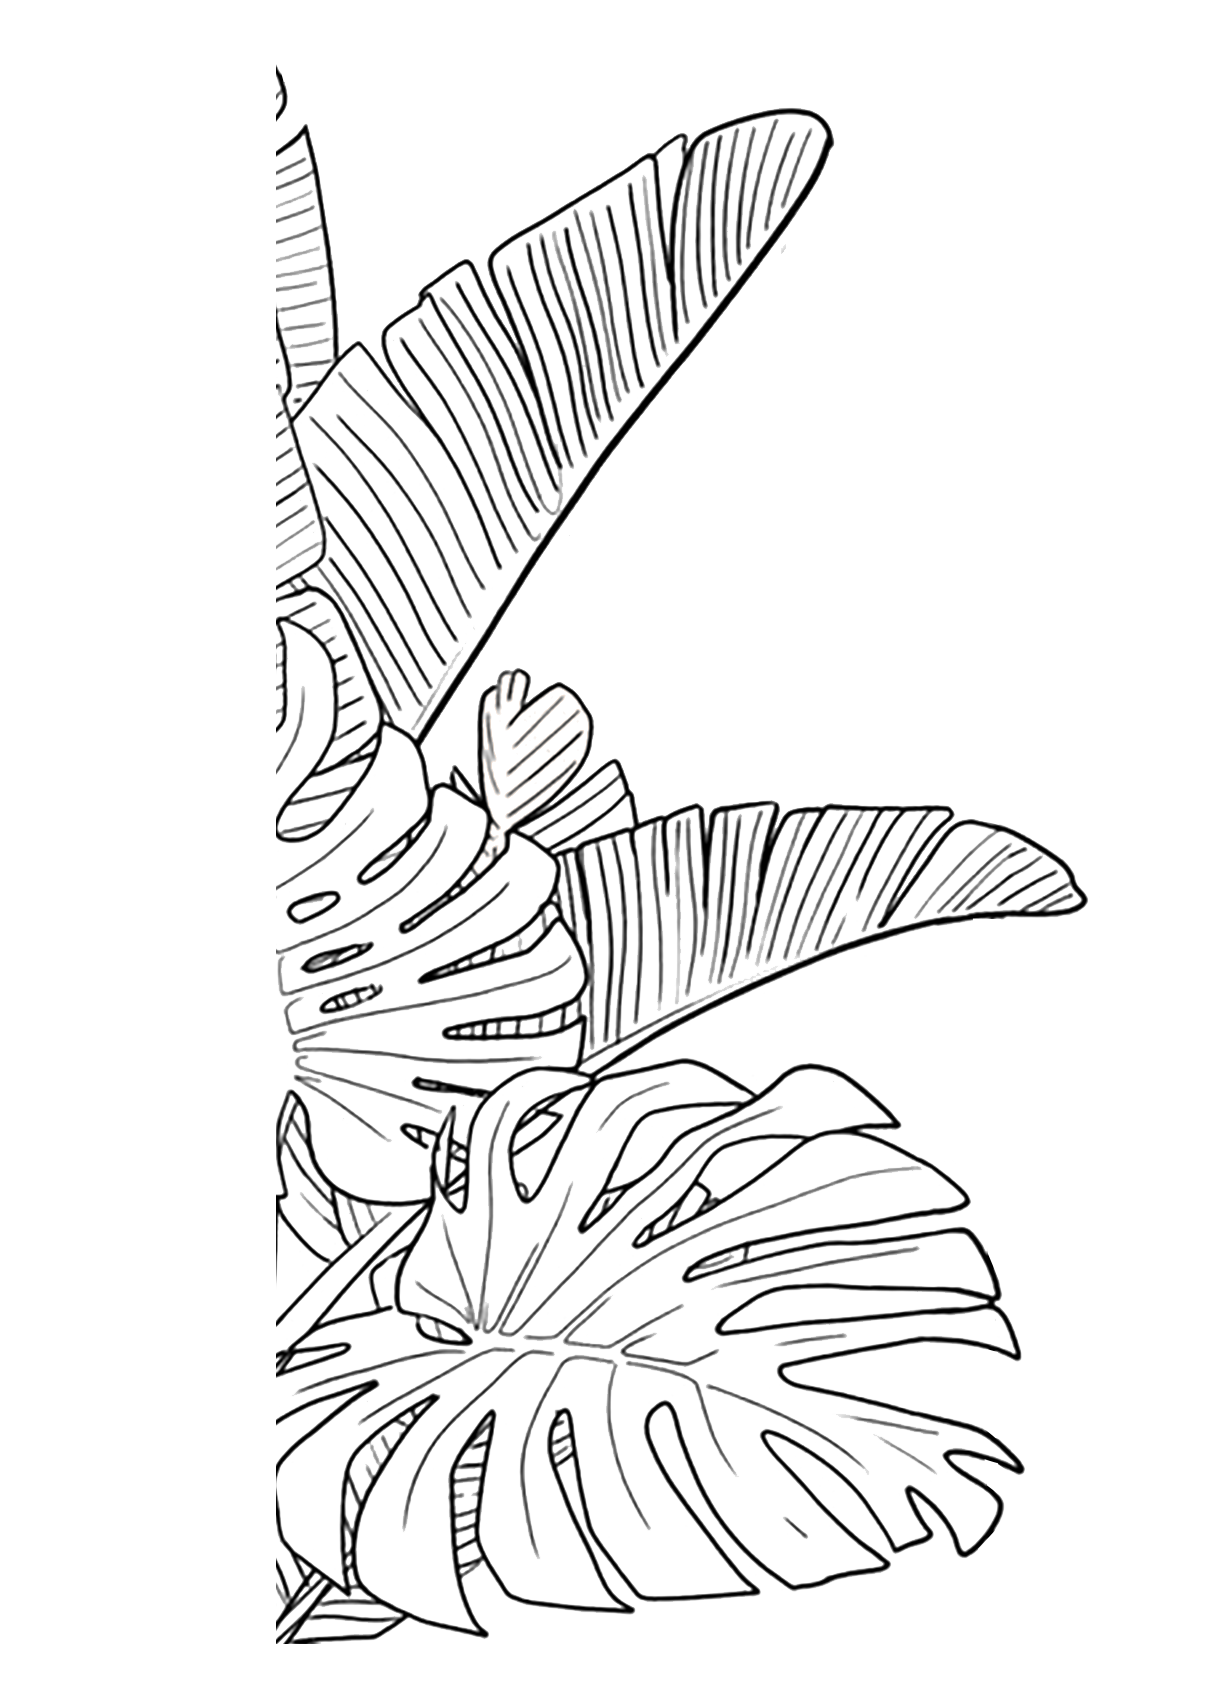
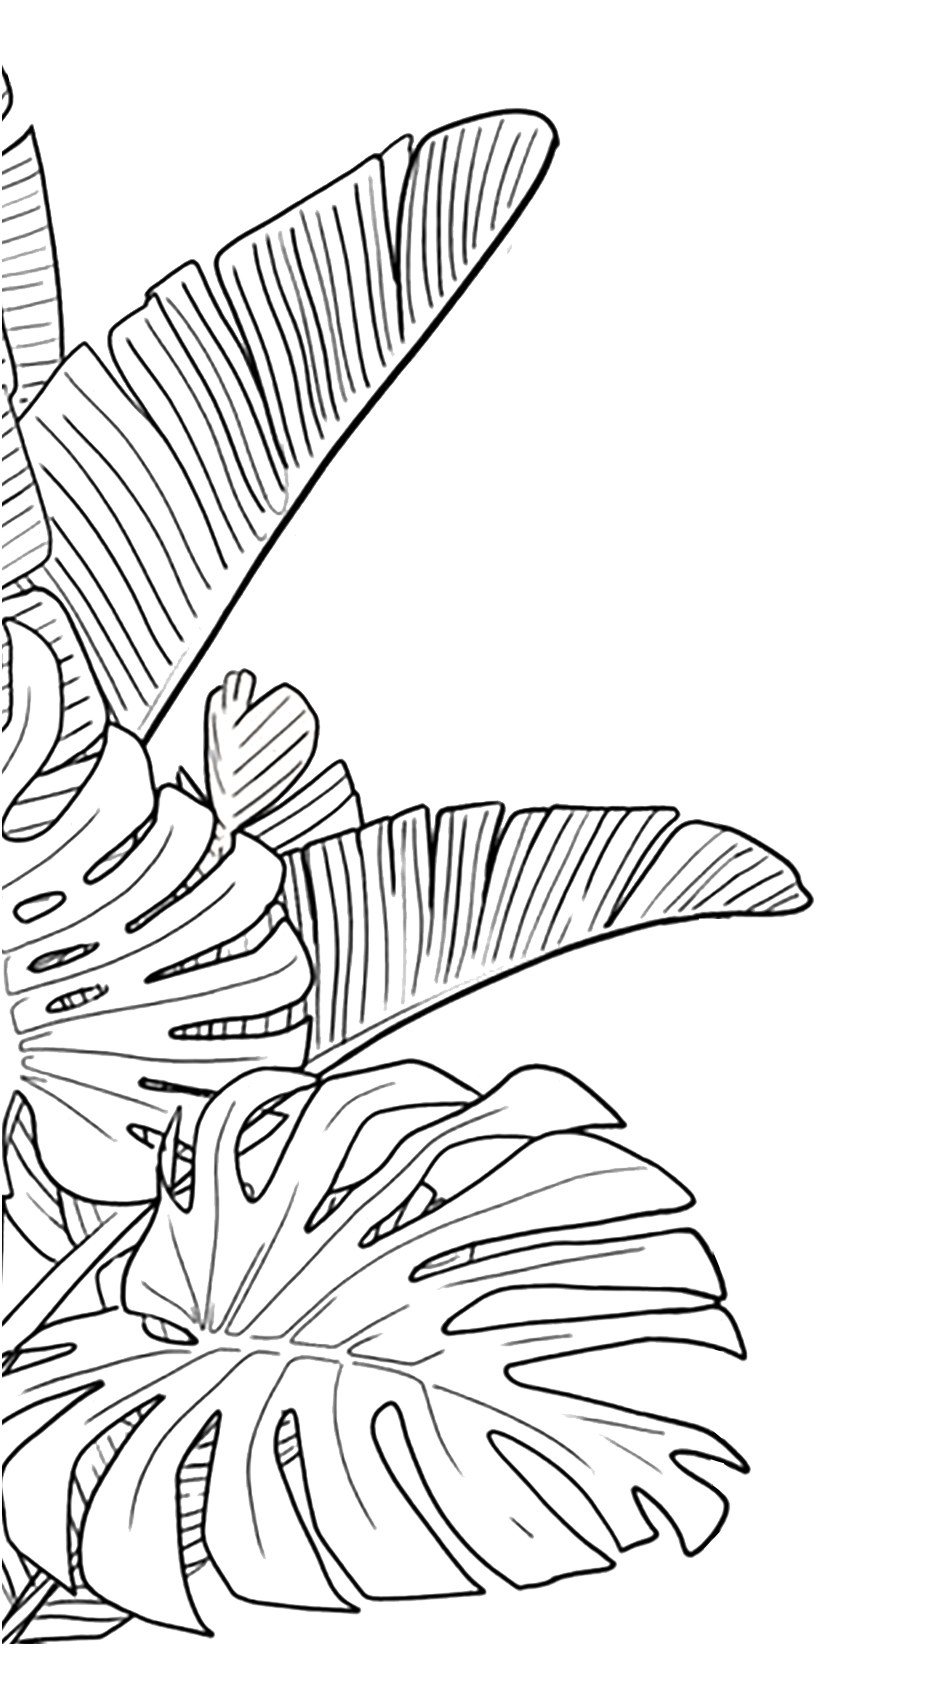
element images added

Changed region(s): [[0.0, 0.0308, 0.8985, 0.9852]]

diff --git a/src/app/home/home.component.html b/src/app/home/home.component.html
@@ -18,8 +18,11 @@
 
 <!--hero section-->
 <div class="container-fluid main">
+  <img class="plant-1" src="./assets/images/banner%20plant%201.png" alt="">
+  <img class="lady" src="./assets/images/Lady%20banner.png" alt="">
   <div class="row ">
-    <div class="col-12 col-md-6 main_col d-flex justify-content-center align-items-center h-100">
+    <div class="col-12 col-md-6 main_col d-flex justify-content-center align-items-center h-100 ">
+      <img class="plant-2" src="./assets/images/banner%20plant%202.png" alt="">
       <div class="main_heading_container">
         <h1 class="main_heading">
           <span class=" mio title">
@@ -41,6 +44,8 @@
 
 <!--intro-1 -->
 <div class="container-fluid intro-section " id="introsection" #introsection>
+  <img class="intro_section_imageright" src="assets/images/about_right.png">
+  <img class="intro_section_imageleft" src="assets/images/about_left.png">
   <div class="row">
     <div class="col-12">
       <div class="container">
@@ -82,11 +87,13 @@
 
 <!--Memberships-->
 <div class="container-fluid membership">
+<!--  <img class="membership_imageright" src="assets/images/lady.png">-->
+<!--  <img class="membership_imageleft" src="assets/images/man.png">-->
   <div class="row">
     <div class="col-12 d-flex justify-content-center">
-      <div class="container">
+      <div class="container membership_container">
         <div class="row">
-          <div class="col-12 px-0 membership_container">
+          <div class="col-12 px-0 ">
             <p class="membership_heading_1 fade-in_membership_heading">
               <span class="membership_heading_2">
                 Memberships to suit everyone.
@@ -326,11 +333,13 @@
 
 <!--our standards-->
 <div class="container-fluid our_standard">
+  <img class="our_standard_imageright" src="assets/images/about_right.png">
+  <img class="our_standard_imageleft" src="assets/images/about_left.png">
   <div class="row">
     <div class="col-12 d-flex justify-content-center">
-      <div class="container">
+      <div class="container our_standard_container">
         <div class="row">
-          <div class="col-12 px-0 our_standard_container">
+          <div class="col-12 px-0 ">
               <h2 class="our_standard_heading">
                 What comes as standard
               </h2>
@@ -480,13 +489,6 @@
           </div>
           <hr>
           <div class="col-8 pt-3 pt-lg-0 col-lg-6 d-flex justify-content-between">
-<!--            <div class="container-fluid">-->
-<!--              <div class="row">-->
-<!--                <div class="col-12 text-lg-right pr-lg-5">-->
-<!--&lt;!&ndash;                  <img class="img-fluid" src="./assets/images/QR.jfif" alt="QR" style="max-width: 100px">&ndash;&gt;-->
-<!--                </div>-->
-<!--              </div>-->
-<!--            </div>-->
             <div class="container-fluid px-lg-0">
               <div class="row">
                 <div class="col-12 px-lg-0">
@@ -513,6 +515,25 @@
 <!--                  </h6>-->
 <!--                </div>-->
 <!--              </div>-->
+            </div>
+            <div class="container-fluid">
+              <div class="row">
+                <div class="col-12 text-lg-right pr-lg-5 pt-4">
+                  <!--                  <img class="img-fluid" src="./assets/images/QR.jfif" alt="QR" style="max-width: 100px">-->
+                  <span class="footer_links">
+                    <a href="mailto:Info@miocoworks.com" target="_blank" style="text-decoration: none; color: #fff" >
+                     Info@miocoworks.com
+                    </a>
+                  </span>
+
+                  <span class="footer_links">
+                    <a target="_blank" style="text-decoration: none; color: #fff" >
+                                         9667563917
+                    </a>
+                  </span>
+
+                </div>
+              </div>
             </div>
           </div>
         </div>

diff --git a/src/app/home/home.component.scss b/src/app/home/home.component.scss
@@ -45,9 +45,38 @@
 .main {
   background: #faf0e6;
   color: #2d2d2d;
+  position: relative;
+  overflow-x: hidden;
 
+  .plant-1{
+    position: absolute;
+    left: 0;
+    bottom: 0;
+    height: 30rem;
+    opacity: 60%;
+  }
+  .lady{
+    position: absolute;
+    left: 0;
+    bottom: 0;
+    height: 20rem;
+    opacity: 85%;
+    @media screen and (min-width: 768px) and (max-width: 1200px) {
+      opacity: 65%;
+    }
+  }
+
+  .plant-2{
+    position: absolute;
+    right: 0;
+    bottom: 0;
+    height: 30rem;
+    opacity: 55%;
+  }
   .main_col {
     min-height: 350px;
+    position: relative;
+    overflow-x: hidden;
     @media (min-width: 768px) {
       min-height: calc(100vh - 160px);
 
@@ -110,11 +139,44 @@
 .intro-section {
   background: #FDFBF7;
   color: #2d2d2d;
-  padding-bottom: 80px;
-  padding-top: 80px;
+  overflow-x: hidden;
+  position: relative;
 
+  .intro_section_imageright{
+    position: absolute;
+    height: 30rem;
+    right: -0.9rem;
+    bottom: 0;
+    @media screen and (max-width: 992px){
+      opacity: 45%;
+    }
+    @media screen and (max-width: 1200px){
+      opacity: 55%;
+    }
+    @media screen and (max-width: 576px){
+      opacity: 10%;
+    }
+
+  }
+  .intro_section_imageleft{
+    position: absolute;
+    height: 30rem;
+    bottom: 0;
+    left: -0.9rem;
+
+    @media screen and (max-width: 992px){
+      opacity: 45%;
+    }
+    @media screen and (min-width: 992px) and (max-width: 1200px){
+      opacity: 55%;
+    }
+    @media screen and (max-width: 576px){
+      opacity: 10%;
+    }
+
+  }
   .intro-section_container {
-    padding: 40px 0;
+    padding: 120px 0;
 
     .intro-content {
       font-size: 20px;
@@ -331,8 +393,43 @@
 
 .our_standard {
   color: #2D2D2D;
-  padding-top: 80px;
-  padding-bottom: 80px;
+  position: relative;
+  overflow: hidden;
+
+  .our_standard_imageright{
+    position: absolute;
+    height: 30rem;
+    right: -0.9rem;
+    bottom: 0;
+    @media screen and (max-width: 992px){
+      opacity: 45%;
+    }
+    @media screen and (max-width: 1200px){
+      opacity: 55%;
+    }
+    @media screen and (max-width: 576px){
+      opacity: 10%;
+    }
+
+  }
+  .our_standard_imageleft{
+    position: absolute;
+    height: 30rem;
+    bottom: 0;
+    left: -0.9rem;
+
+    @media screen and (max-width: 992px){
+      opacity: 45%;
+    }
+    @media screen and (min-width: 992px) and (max-width: 1200px){
+      opacity: 55%;
+    }
+    @media screen and (max-width: 576px){
+      opacity: 10%;
+    }
+
+  }
+
   @media (min-width: 768px) {
     padding-top: 80px !important;
     padding-bottom: 80px !important;
@@ -351,6 +448,10 @@
     }
     @media (min-width: 768px) {
       padding: 40px 0;
+      //width: 75%;
+    }
+    @media (max-width: 768px) {
+      padding: 24px 0;
       //width: 75%;
     }
   }
